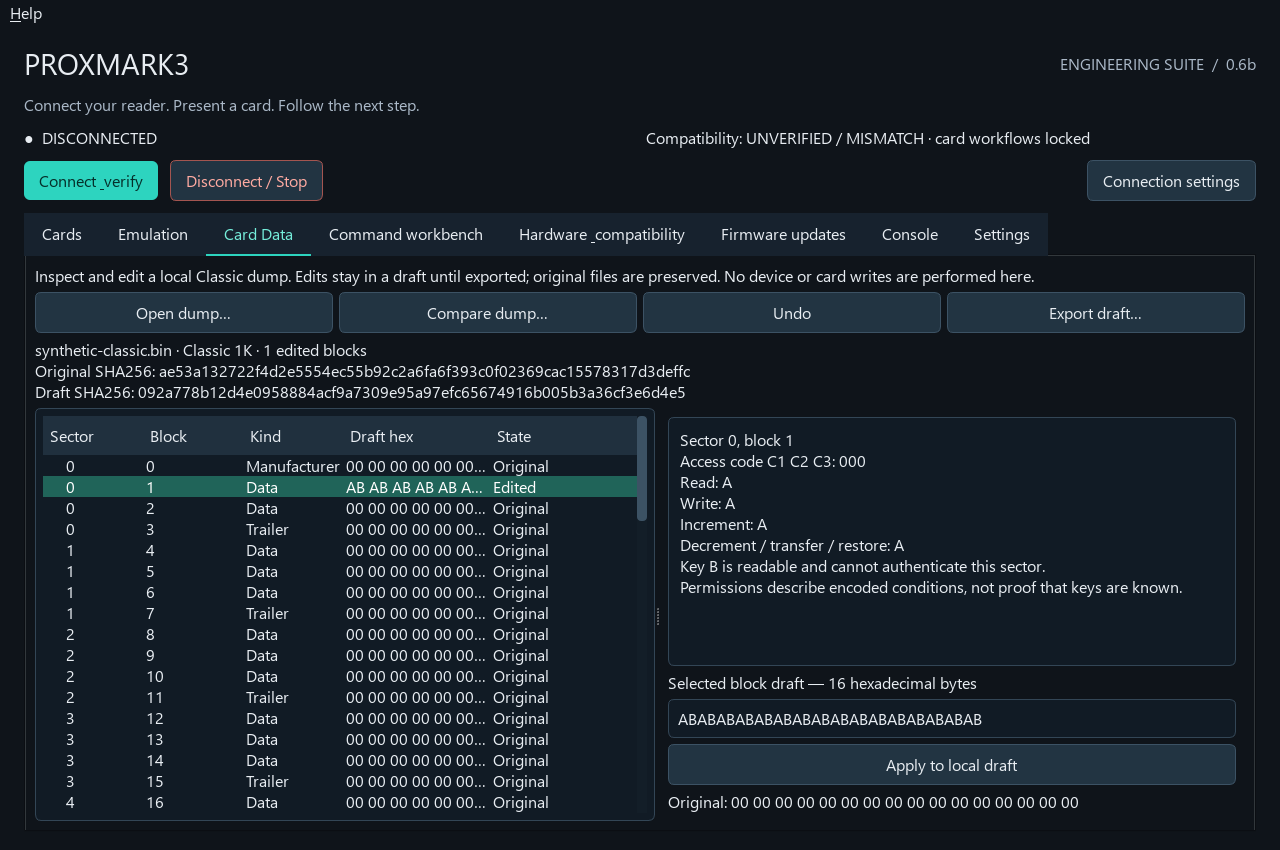
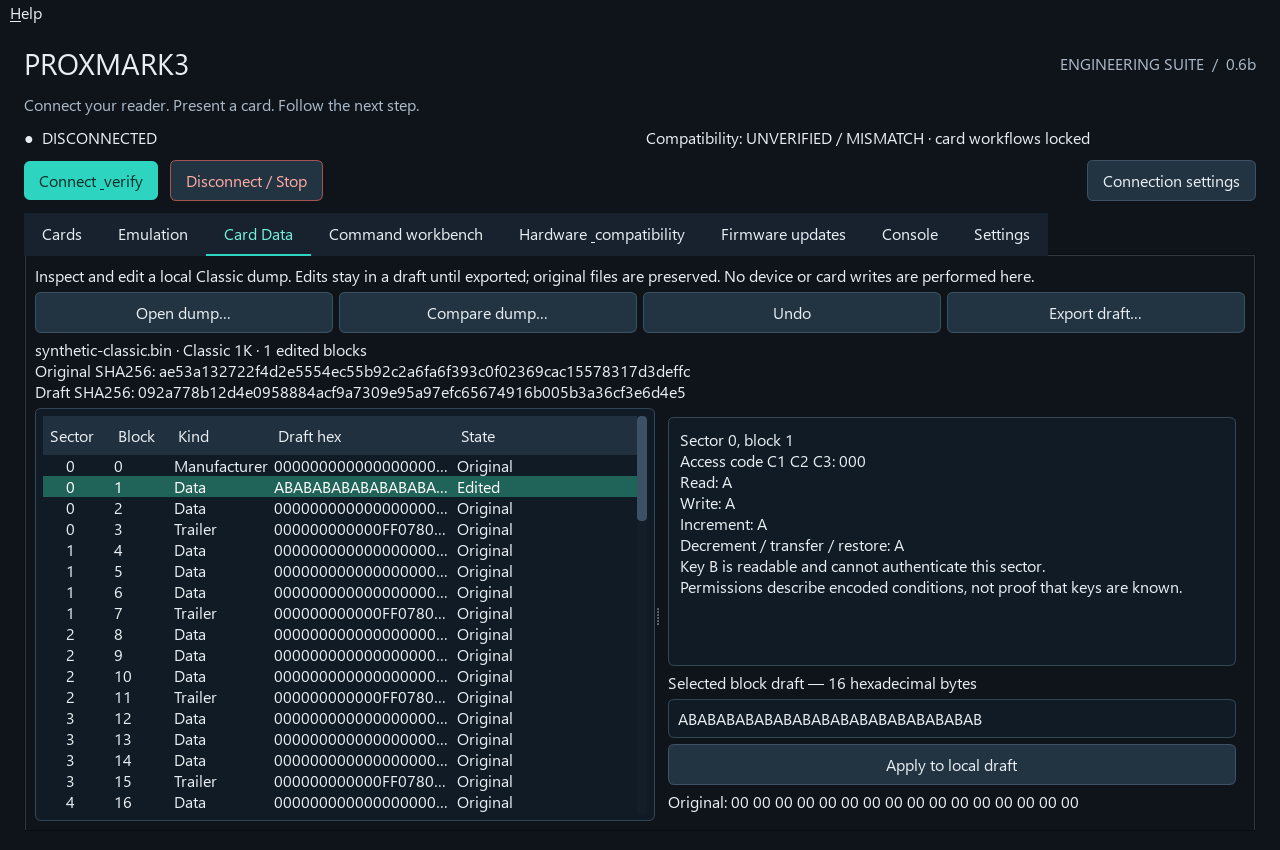
Document verified Windows upgrade and Linux packaging results

Changed region(s): [[0.0938, 0.4894, 0.4375, 0.9482], [0.0938, 0.4894, 0.1562, 0.52]]

diff --git a/Proxmark3Suite/package_windows.py b/Proxmark3Suite/package_windows.py
@@ -16,7 +16,9 @@ readme = """Proxmark3 Engineering Suite — 0.6b beta
    pm3.bat/client executable and COM port; then Connect & verify.
 4. Identify a card. Approve read-only information checks, then separately
    decide whether to attempt recovery.
-5. Use Emulation to save recovered dumps into PC slots, inspect or capture
+5. Open Card Data to inspect dumps, decode permissions, edit a local draft,
+   undo changes or compare files. Export a separate file; originals are preserved.
+6. Use Emulation to save recovered dumps into PC slots, inspect or capture
    device memory, and review loading or simulation separately.
 
 Defaults: C:\\rrg_other\\pm3.bat, COM18, PM3 GENERIC / Easy,

diff --git a/Proxmark3Suite/LINUX.md b/Proxmark3Suite/LINUX.md
@@ -1,6 +1,12 @@
 # Linux x86_64 beta
 
-Extract the tar.gz and run `./Proxmark3EasyGUI/Proxmark3Suite`. The executable bundles Python and Qt. It requires a Linux graphical desktop and system Qt/X11 libraries; Ubuntu 24.04 x86_64 is the build/test baseline. Other distributions and ARM are not verified.
+Extract the tar.gz and run `./Proxmark3EasyGUI/Proxmark3Suite`. The executable bundles Python and Qt. It requires a Linux graphical desktop and system OpenGL/X11 libraries; Ubuntu 24.04 x86_64 is the build/test baseline. Other distributions and ARM are not verified.
+
+On an Ubuntu desktop missing these runtime libraries, install them before launching:
+
+```sh
+sudo apt-get install libegl1 libopengl0 libxkbcommon0 libxcb-cursor0 libxcb-icccm4 libxcb-keysyms1 libxcb-shape0 libxcb-xinerama0 libxcb-xkb1 libxkbcommon-x11-0
+```
 
 Optionally run `sh Proxmark3EasyGUI/install.sh` to copy the app into `~/.local/opt/Proxmark3EasyGUI` and add an application-menu launcher/icon. The optional installer uses system Python 3 to safely generate the launcher. No sudo is needed for this installer.
 
